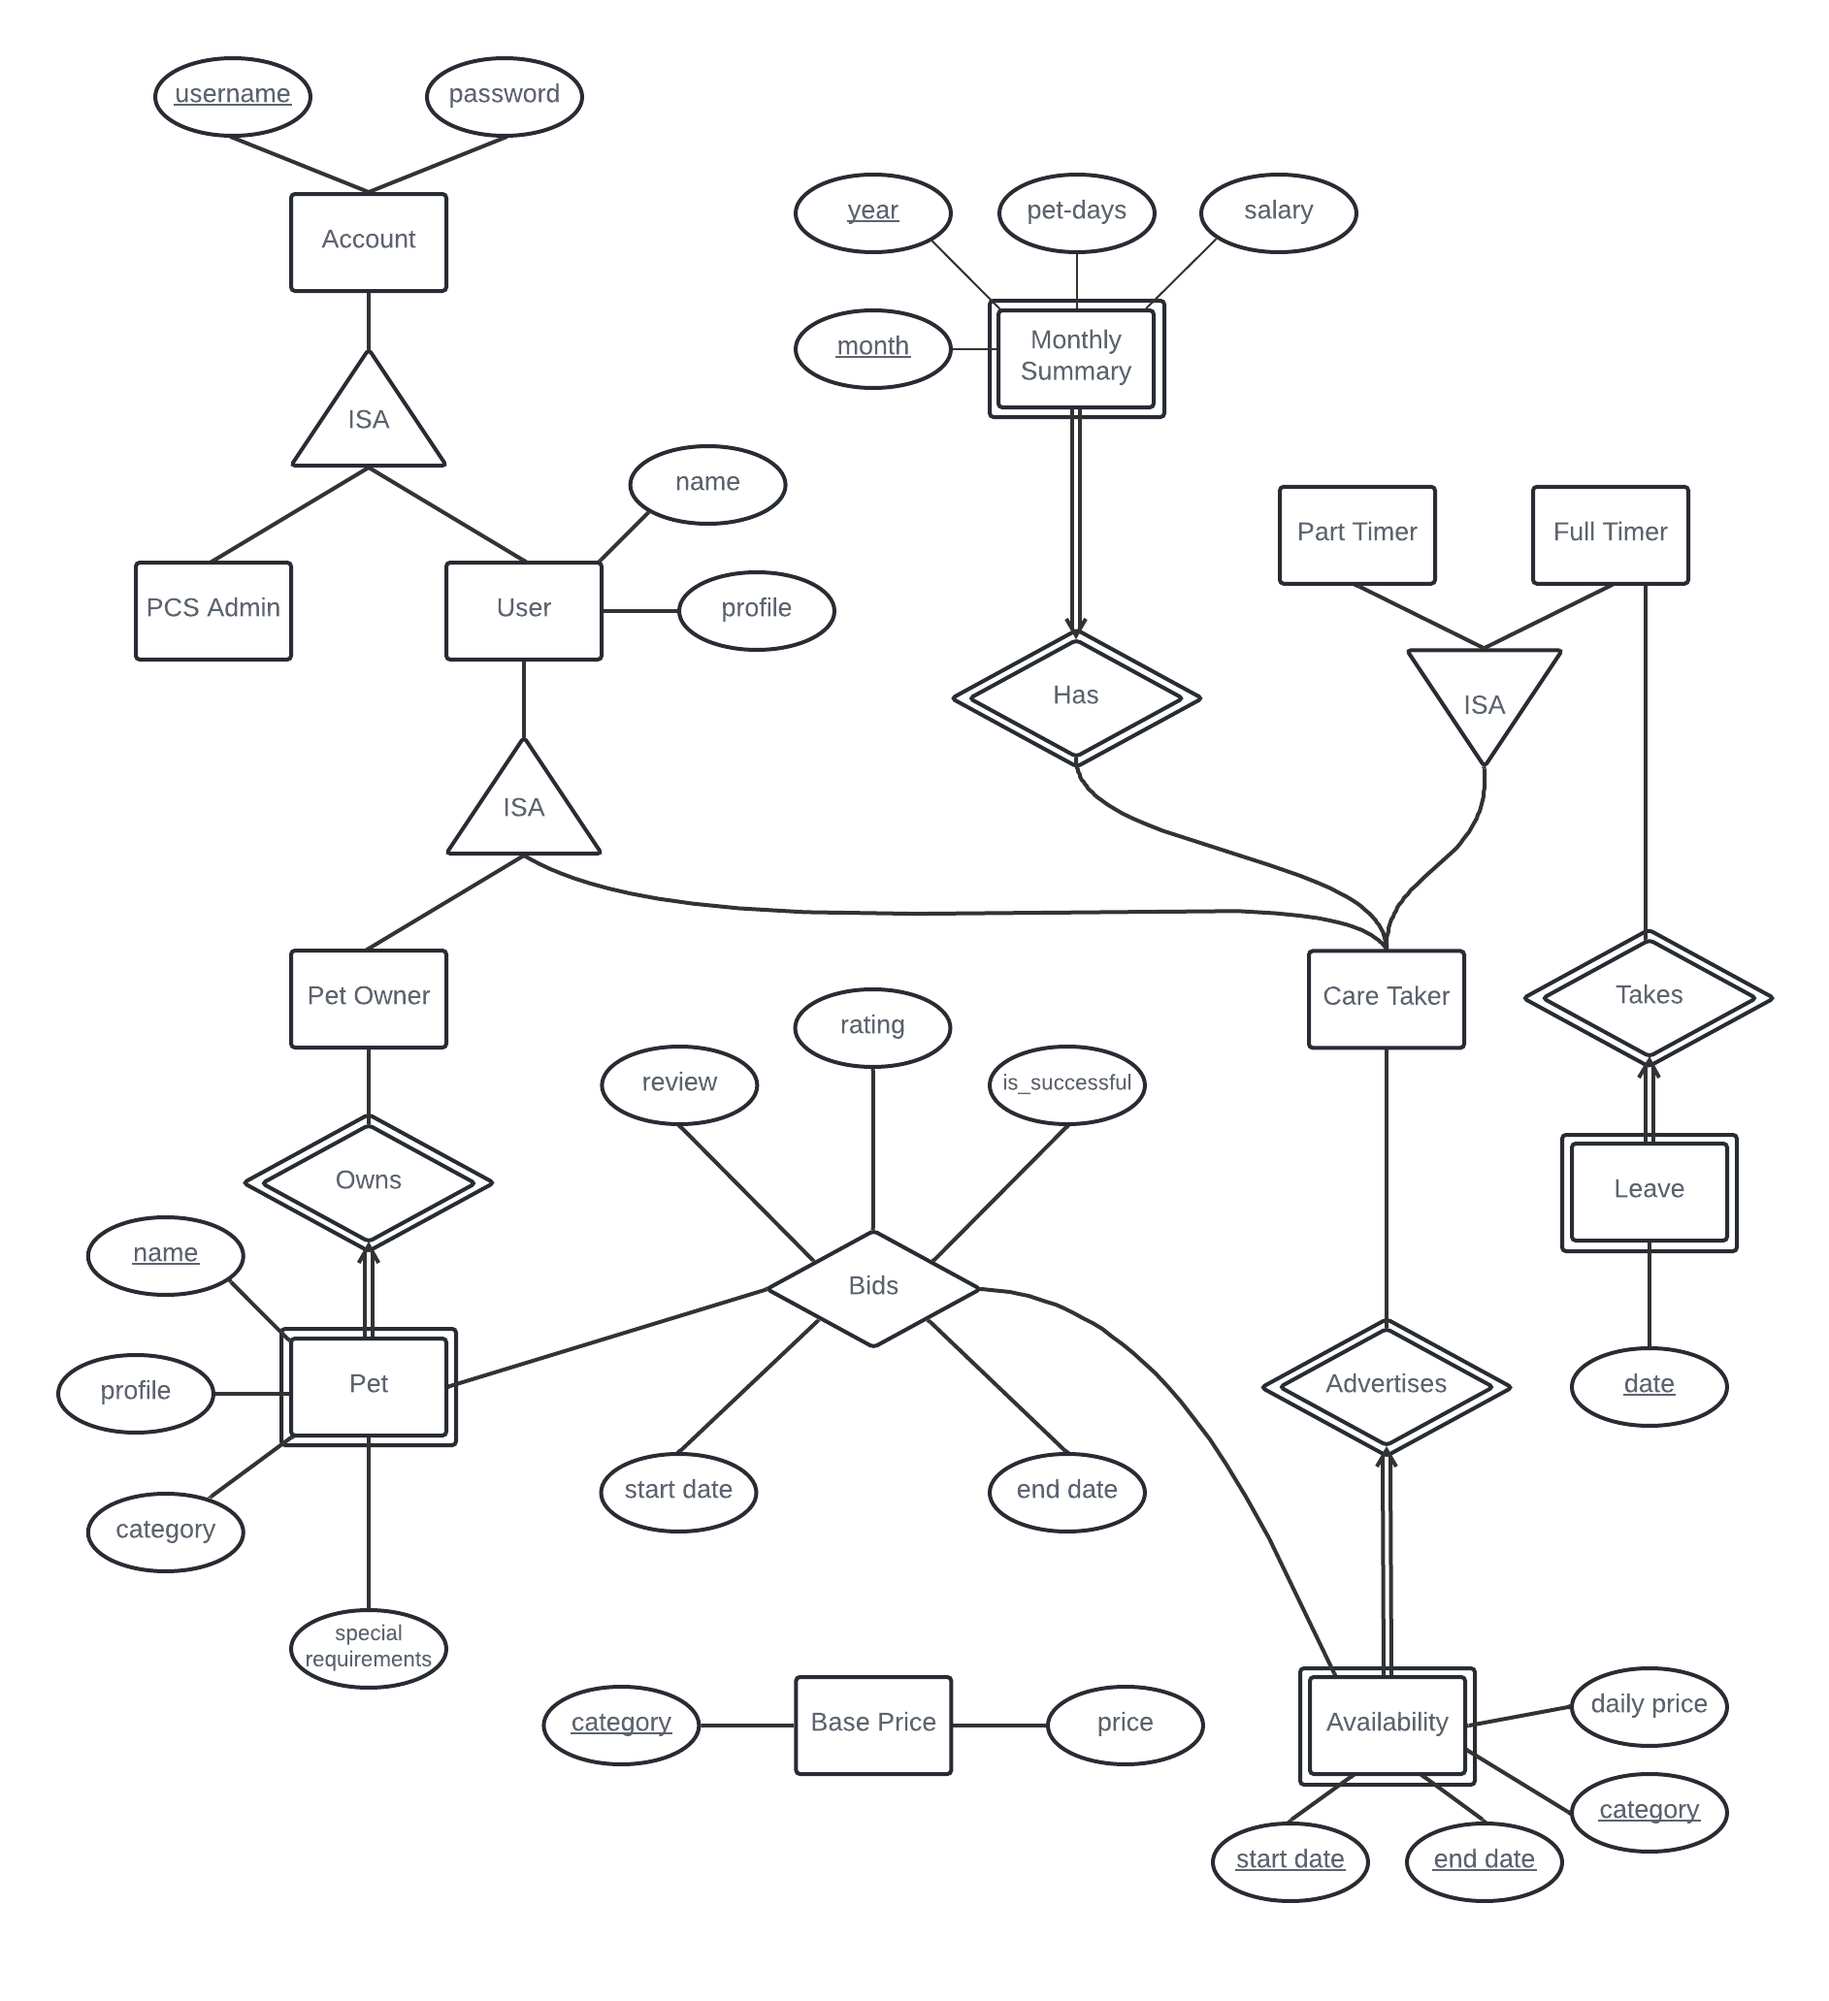
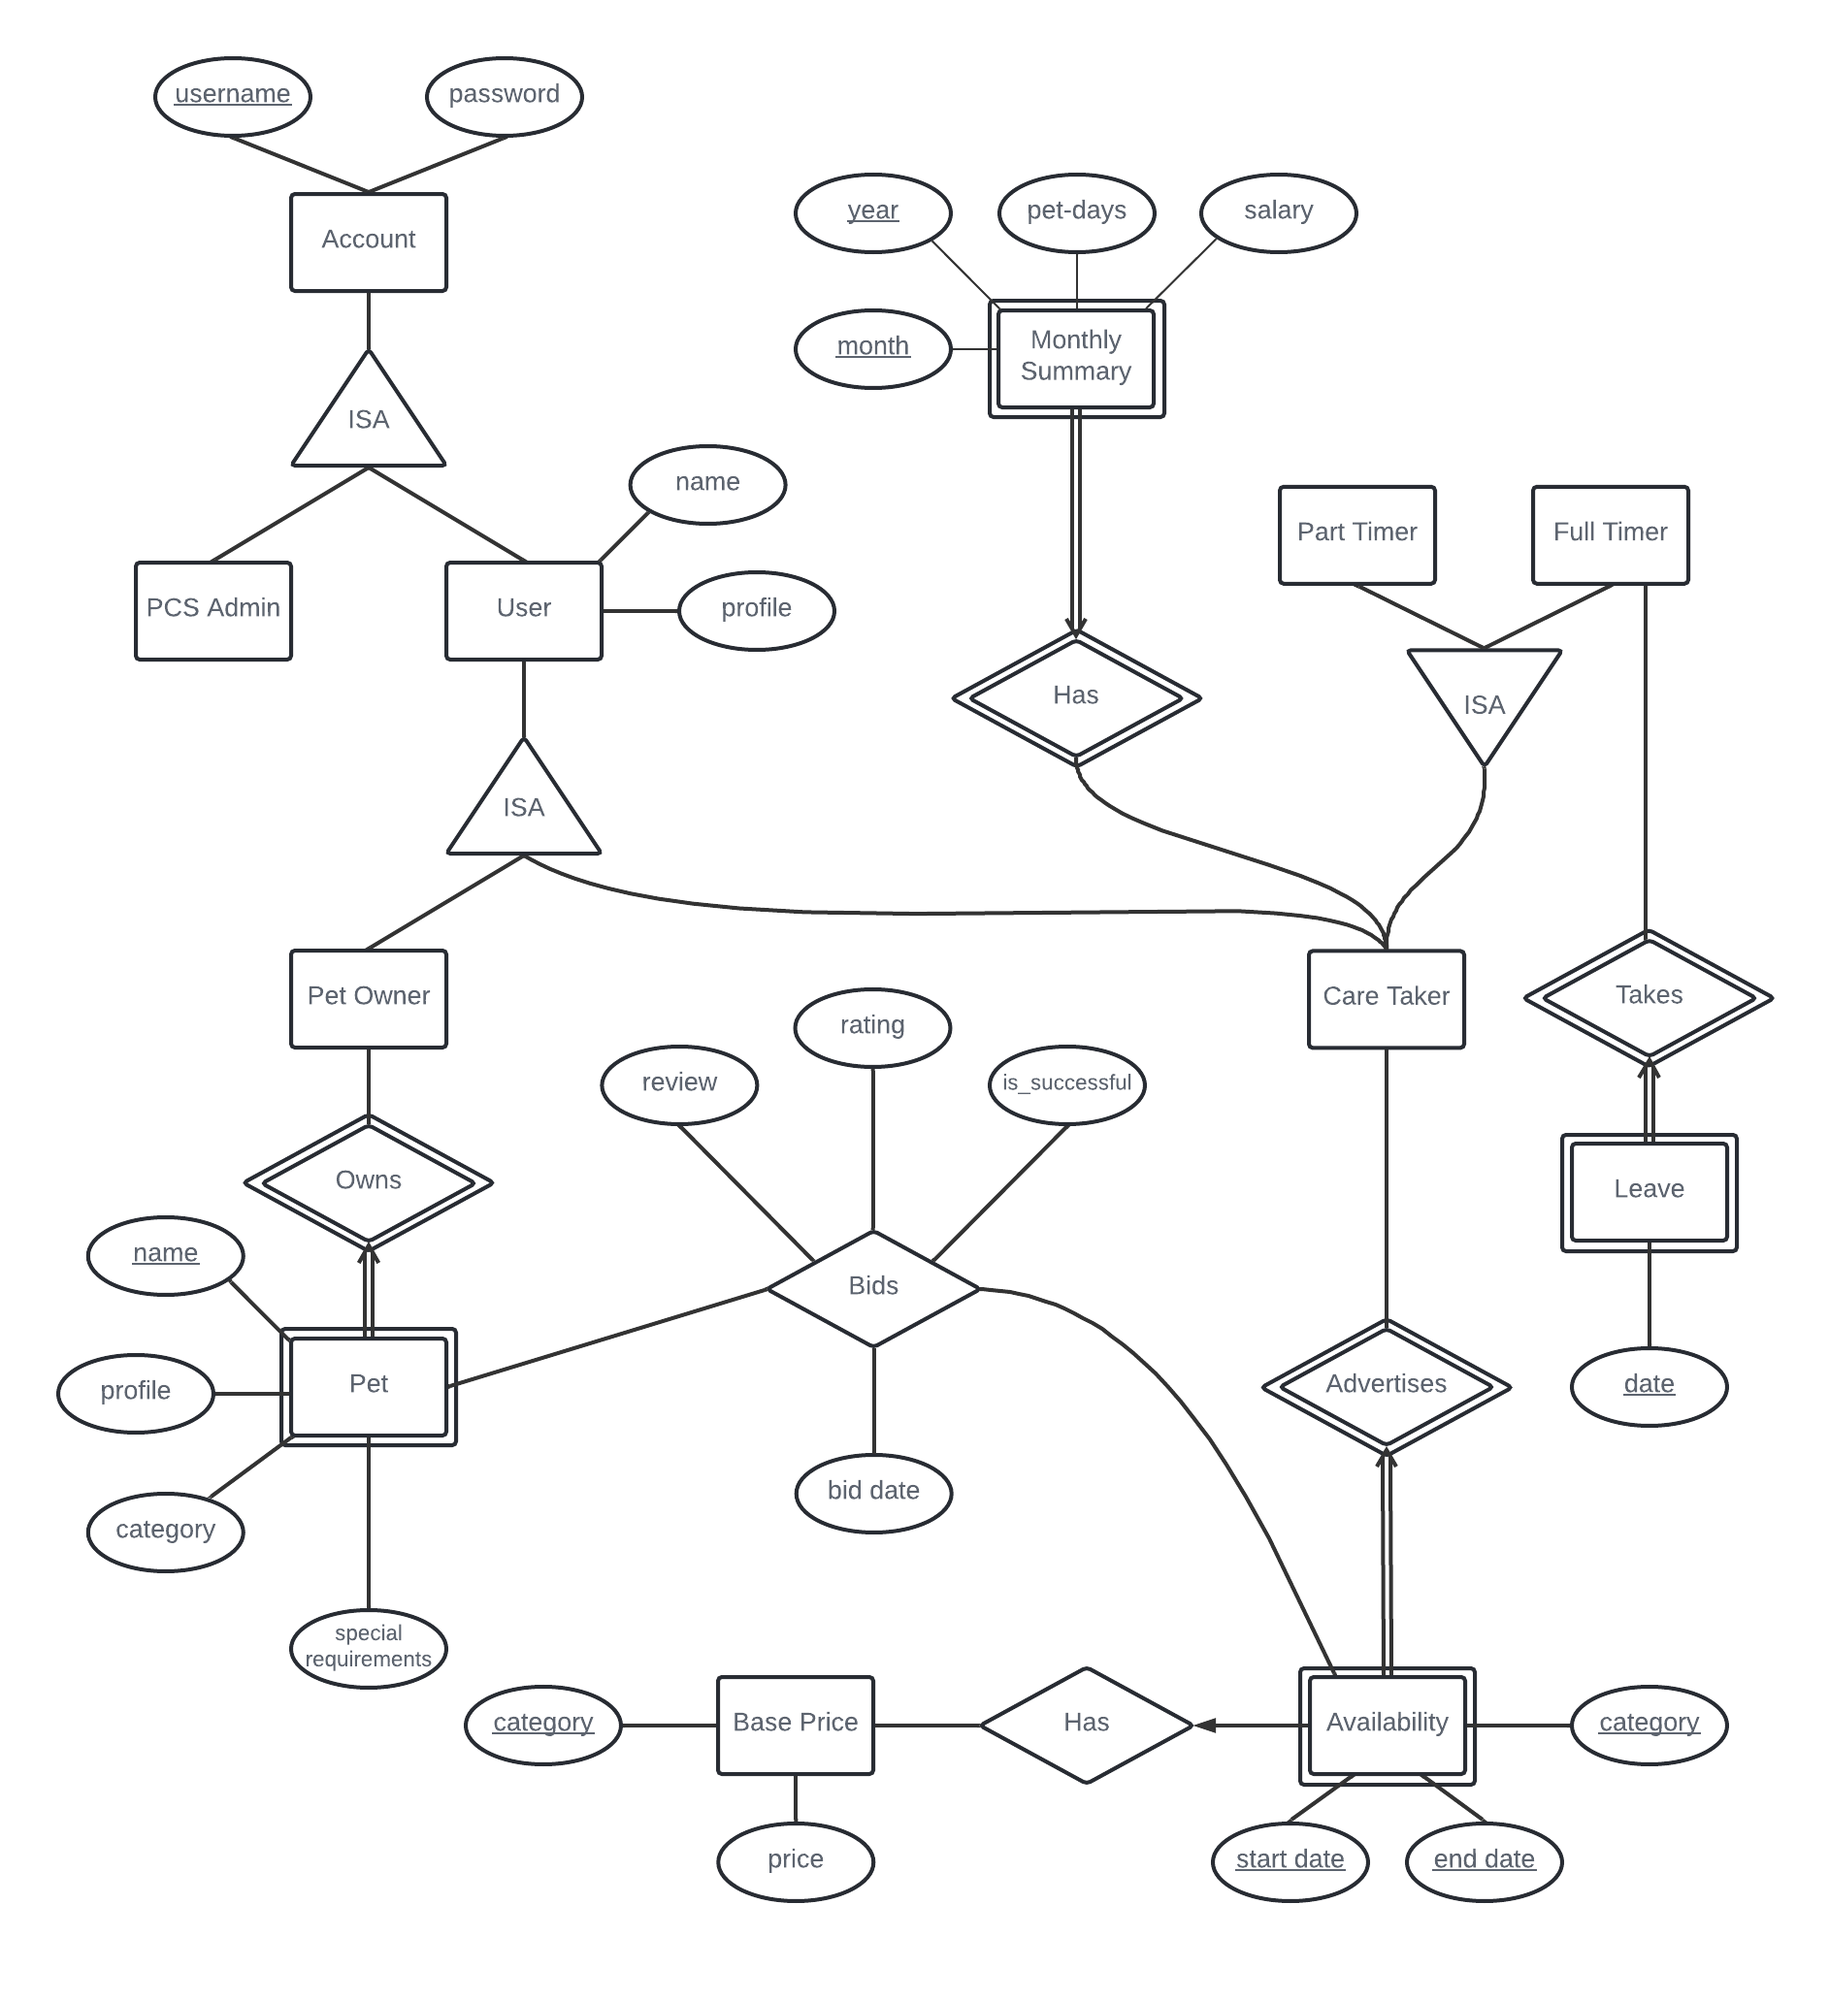
Update final constraints

diff --git a/docs/Final_Constraints.md b/docs/Final_Constraints.md
@@ -58,29 +58,21 @@ Note: png and pdf of ER diagram is in the same folder
 ## Care Taker Pet Limit
 
 1. A Care Taker cannot take care of more than 5 Pets on any single day
-    - For each day specified on a bid, the database can check if there are 5 or more successful Bids active on that day
-    - If there are 5 or more successful Bids, the Care Taker cannot accept the bid. Else, the Care Taker can accept the bid
+    - For any bid, the database can check if there are 5 or more successful Bids active on that day
+        - If there are 5 or more successful Bids, the Care Taker will not be able to accept the bid. Else, the Care Taker can accept the bid
     - Cannot be reflected on ER diagram
 
 ## Care Taker Monthly Summary
 
 1. A Monthly Summary consists of year, month, pet-days and salary
-2. At the start of each Month, a Monthly Summary of the previous Month is created
-    - Cannot be reflected on ER diagram
-3. Every Care Taker has a Monthly Summary for each Month they have worked
+2. Every Care Taker has a Monthly Summary for each Month they have worked
     - Identity dependency
     - Year and Month as partial key
-4. Pet-days are calculated by checking each successful Bid that lies in that month, and then adding the pet-days in that month
-5. Salary is calculated by checking each successful Bid that has a start or end date belonging to that month, and then adding the daily price multiplied by the pet-days in that month. The salary is also affected by whether the Care Taker is a Full Timer of Part Timer
-    - Case Full Timer: Care Taker takes 85% of price
-      - It does not make sense that a Full Timer takes a fixed rate for the first 60 pet-days. An alternative is to provide a better incentive than Part Timers
-    - Case Part Timer: Care Taker takes 75% of price
-    - Example, a successful Bid from 30th of October to 2nd of November at a daily price of $50 will contribute $50 * 2 * 0.85 = $85 to the salary of a Full Timer for October 
+3. Each successful bid adds one pet day to the monthly summary on the month that the bid takes place in
+4. Each successful bid adds the price of the category of the pet to the monthly summary on the month that the bid takes place in
 
 ## Base Price
 
 1. The Base Price of different categories of Pets should be recorded in a list, and can be modified by PCS Admin at any time
     - No way to show only PCS Admin can modify the table
-2. The daily price of an Availability is determined by a variety of factors, such as the Base Price of the category and the average rating of the Care Taker
-    - E.g. (Base Price of Category) + (Rating * 4)
-    - Base Price to be obtained from the base price list
+
